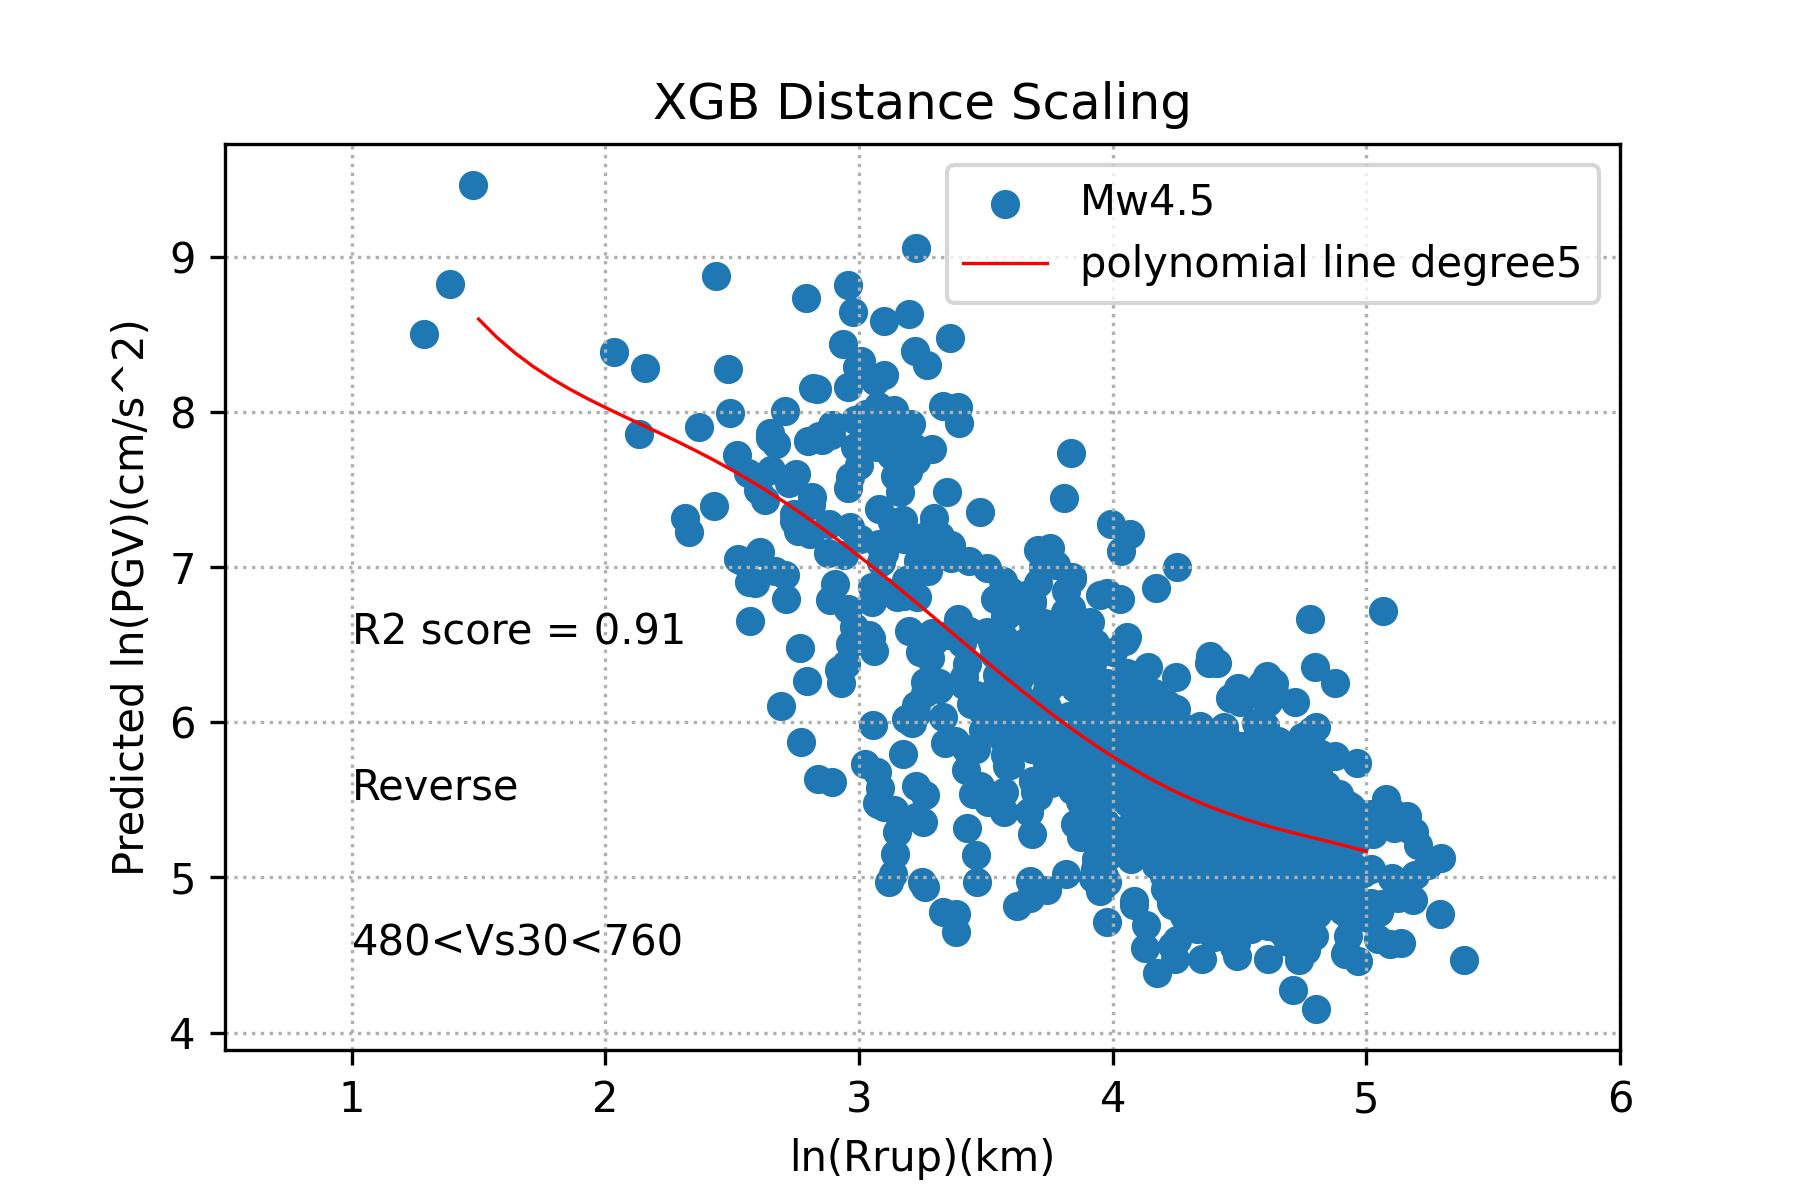
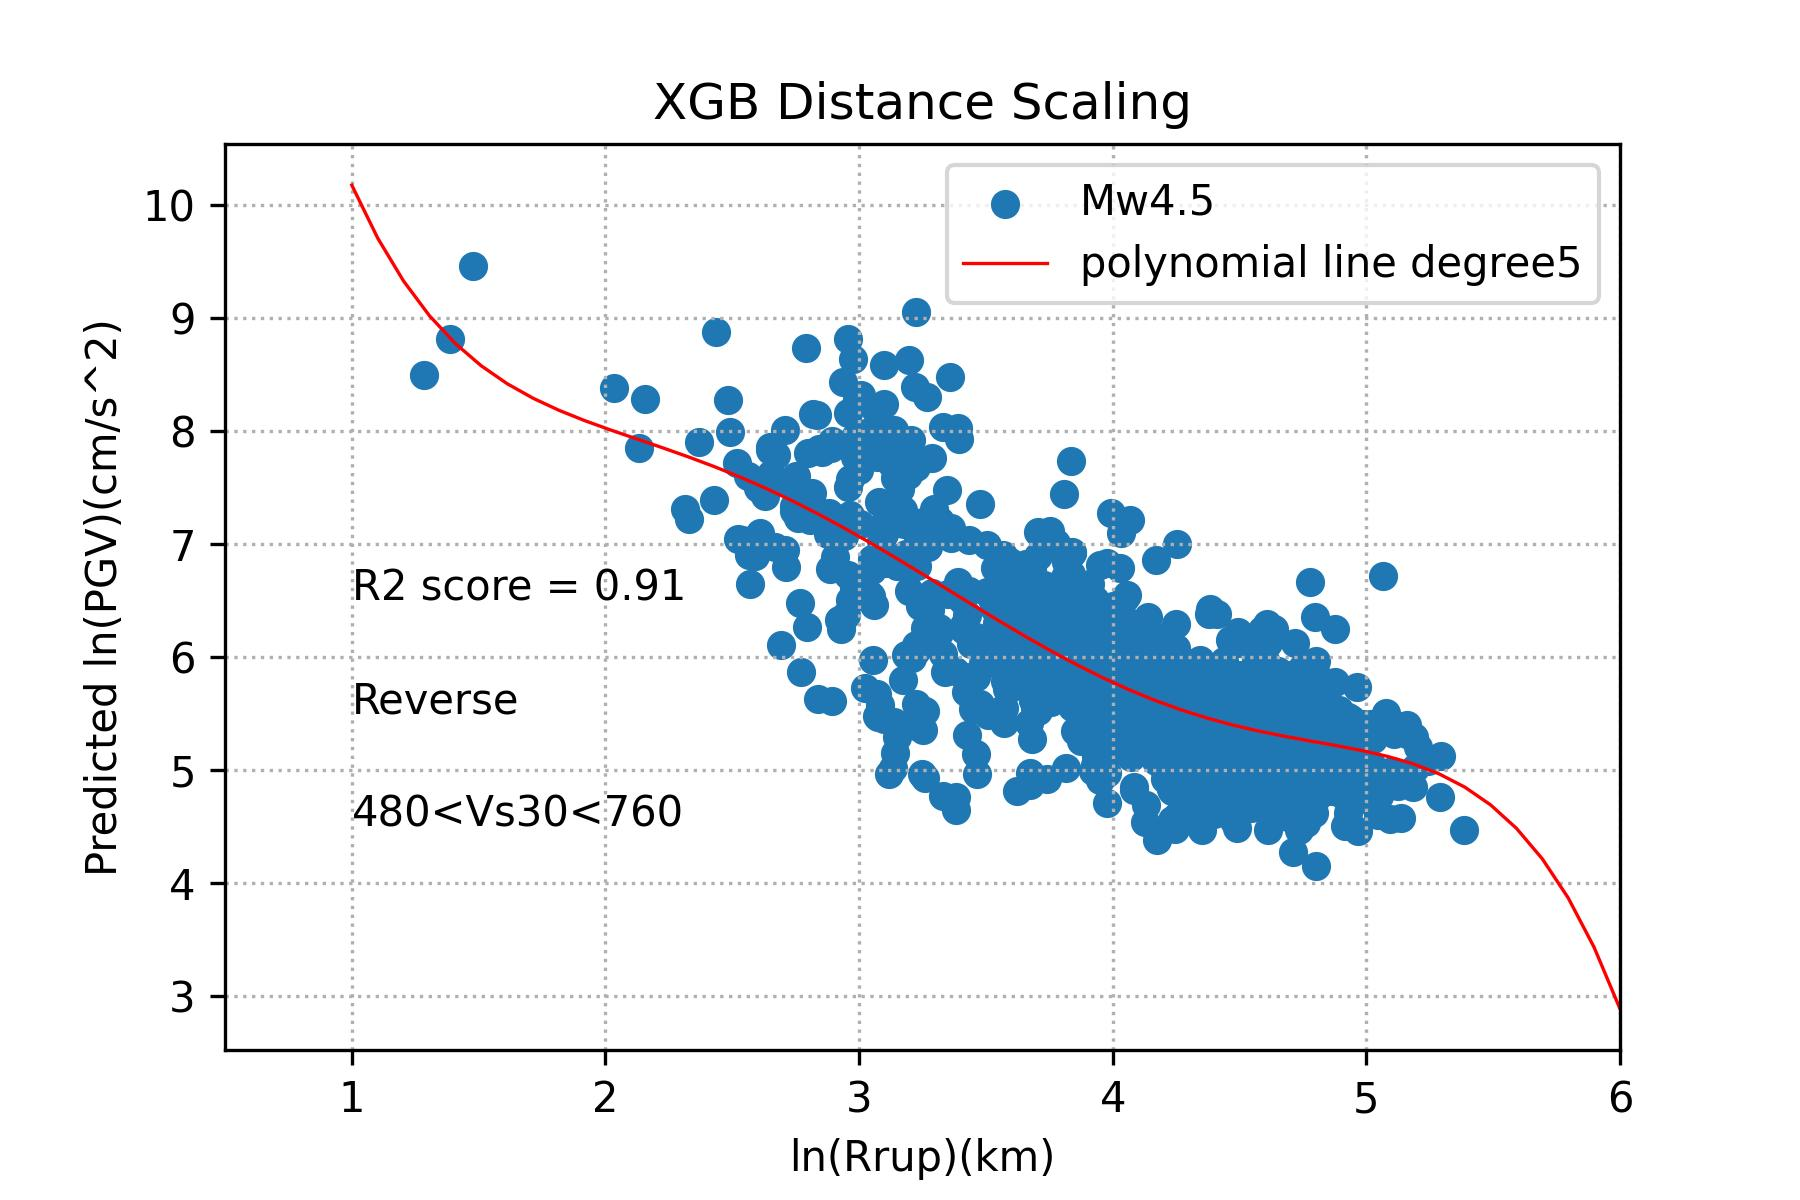
plot different Mw

diff --git a/machine_learning/design_pattern/plot_figure.py b/machine_learning/design_pattern/plot_figure.py
@@ -370,7 +370,7 @@ class plot_fig:
                 [predicted_df['fault.type'] == faulttype][
                     np.exp(predicted_df['lnVs30']) > minVs30][
                         np.exp(predicted_df['lnVs30']) < maxVs30].values, poly))
-        myline = np.linspace(1.5, 5, 50)
+        myline = np.linspace(1, 6, 50)
         plt.grid(linestyle=':')
         plt.plot(myline,
                  mymodel(myline),
